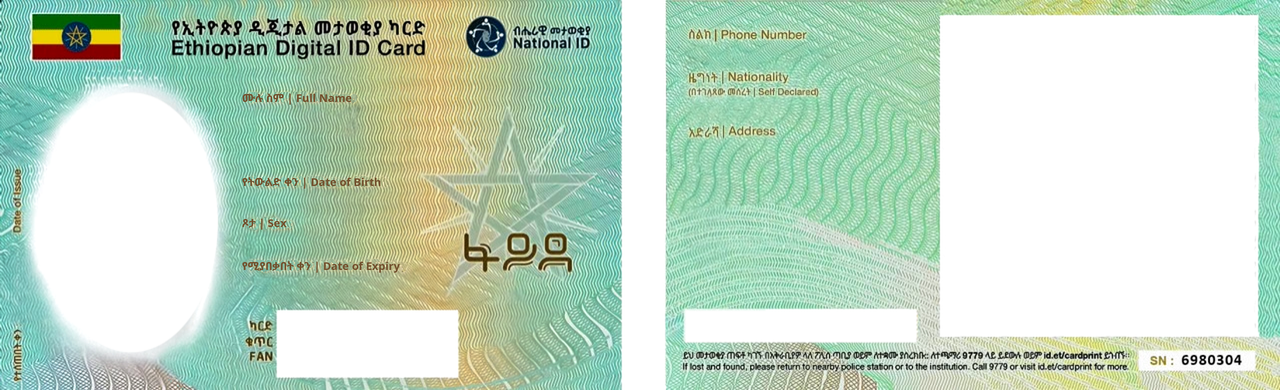
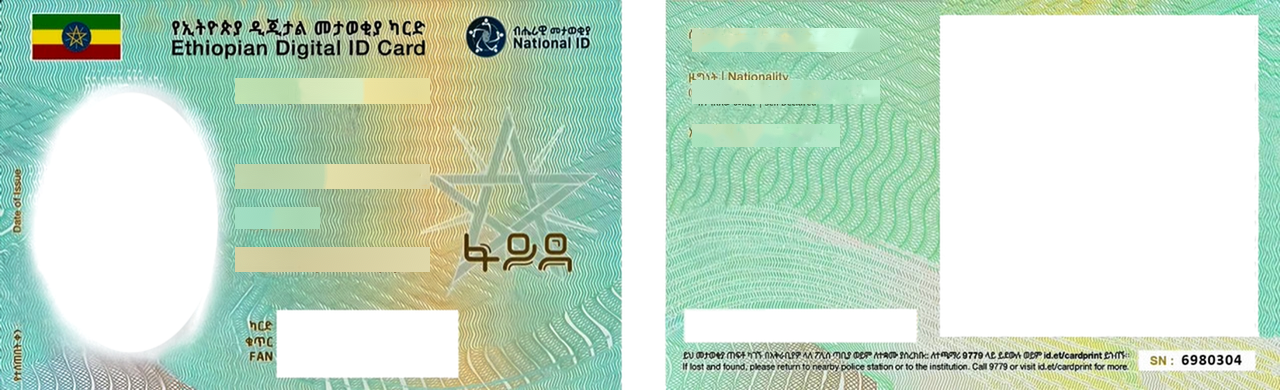
Update ID card labels: bold red styling, bilingual formatting, and connection resilience

diff --git a/core/image/image_generator.py b/core/image/image_generator.py
@@ -21,6 +21,21 @@ _local_en = LOCAL_FONTS_DIR / "noto" / "NotoSans-Regular.ttf"
 FONT_AMHARIC_DEFAULT = str(_local_am) if _local_am.exists() else "/usr/share/fonts/truetype/sil-abyssinica/AbyssinicaSIL-Regular.ttf"
 FONT_ENGLISH_DEFAULT = str(_local_en) if _local_en.exists() else "/usr/share/fonts/truetype/noto/NotoSans-Regular.ttf"
 
+_local_am_bold = LOCAL_FONTS_DIR / "noto" / "NotoSansEthiopic-Bold.ttf"
+_local_en_bold = LOCAL_FONTS_DIR / "noto" / "NotoSans-Bold.ttf"
+FONT_AMHARIC_BOLD = str(_local_am_bold) if _local_am_bold.exists() else FONT_AMHARIC_DEFAULT
+FONT_ENGLISH_BOLD = str(_local_en_bold) if _local_en_bold.exists() else FONT_ENGLISH_DEFAULT
+
+LABEL_FIELDS = [
+    ("ሙሉ ስም", "Full Name", (242, 85)),
+    ("የትውልድ ቀን", "Date of Birth", (242, 164)),
+    ("ፆታ", "Sex", (242, 203)),
+    ("የማብቂያ ቀን", "Date of Expiry", (242, 238)),
+    ("ስልክ ቁጥር", "Phone Number", (698, 33)),
+    ("ዜግነት", "Nationality", (698, 83)),
+    ("አድራሻ", "Address", (698, 126)),
+]
+
 TEMPLATES_DIR = BASE_DIR / "data" / "templates"
 TEMPLATE_PATH = TEMPLATES_DIR / "white_template_cur.png"
 MONTH_NAMES = ["Jan", "Feb", "Mar", "Apr", "May", "Jun", "Jul", "Aug", "Sep", "Oct", "Nov", "Dec"]
@@ -254,6 +269,36 @@ def generate_final_id_image(
             font_use = font_en_large
 
         draw_bold_text(draw_large, (x, y), text_to_draw, font_use, boldness=boldness * scale)
+
+    # 5.5⃣ Draw sharp bold labels (Bilingual Amharic + English)
+    try:
+        font_lbl_am = ImageFont.truetype(FONT_AMHARIC_BOLD, int(11.5 * scale))
+        font_lbl_en = ImageFont.truetype(FONT_ENGLISH_BOLD, int(11.5 * scale))
+    except Exception:
+        font_lbl_am = font_am_large
+        font_lbl_en = font_en_large
+
+    label_color = (175, 15, 15) if color else (40, 40, 40)
+
+    for am_txt, en_txt, pos in LABEL_FIELDS:
+        lx, ly = pos[0] * scale, pos[1] * scale
+        draw_bold_text(draw_large, (lx, ly), am_txt, font_lbl_am, fill=label_color, boldness=0.4 * scale)
+        am_w = draw_large.textlength(am_txt, font=font_lbl_am)
+        sep_en = " | " + en_txt
+        draw_bold_text(draw_large, (lx + am_w, ly), sep_en, font_lbl_en, fill=label_color, boldness=0.4 * scale)
+
+    try:
+        font_sub_am = ImageFont.truetype(FONT_AMHARIC_BOLD, int(8 * scale))
+        font_sub_en = ImageFont.truetype(FONT_ENGLISH_BOLD, int(8 * scale))
+    except Exception:
+        font_sub_am = font_am_large
+        font_sub_en = font_en_large
+
+    sub_color = (185, 40, 40) if color else (60, 60, 60)
+    sub_x, sub_y = 698 * scale, 97 * scale
+    draw_bold_text(draw_large, (sub_x, sub_y), "በተገለጸው መሰረት", font_sub_am, fill=sub_color, boldness=0.2 * scale)
+    sub_am_w = draw_large.textlength("በተገለጸው መሰረት", font=font_sub_am)
+    draw_bold_text(draw_large, (sub_x + sub_am_w, sub_y), " | Self Declared", font_sub_en, fill=sub_color, boldness=0.2 * scale)
 
     # 6⃣ Paste cropped images
     for key, field in TEMPLATE_FIELDS.items():

diff --git a/core/image/image_generator_b.py b/core/image/image_generator_b.py
@@ -20,6 +20,22 @@ _local_en = LOCAL_FONTS_DIR / "noto" / "NotoSans-Regular.ttf"
 
 FONT_AMHARIC_DEFAULT = str(_local_am) if _local_am.exists() else "/usr/share/fonts/truetype/sil-abyssinica/AbyssinicaSIL-Regular.ttf"
 FONT_ENGLISH_DEFAULT = str(_local_en) if _local_en.exists() else "/usr/share/fonts/truetype/noto/NotoSans-Regular.ttf"
+
+_local_am_bold = LOCAL_FONTS_DIR / "noto" / "NotoSansEthiopic-Bold.ttf"
+_local_en_bold = LOCAL_FONTS_DIR / "noto" / "NotoSans-Bold.ttf"
+FONT_AMHARIC_BOLD = str(_local_am_bold) if _local_am_bold.exists() else FONT_AMHARIC_DEFAULT
+FONT_ENGLISH_BOLD = str(_local_en_bold) if _local_en_bold.exists() else FONT_ENGLISH_DEFAULT
+
+LABEL_FIELDS_B = [
+    ("ሙሉ ስም", "Full Name", (242, 85)),
+    ("የትውልድ ቀን", "Date of Birth", (242, 169)),
+    ("ፆታ", "Sex", (242, 212)),
+    ("የማብቂያ ቀን", "Date of Expiry", (242, 252)),
+    ("ስልክ ቁጥር", "Phone Number", (698, 33)),
+    ("ዜግነት", "Nationality", (698, 83)),
+    ("አድራሻ", "Address", (698, 126)),
+]
+
 TEMPLATES_DIR = BASE_DIR / "data" / "templates"
 _tb_clean = TEMPLATES_DIR / "template_b.png"
 TEMPLATE_B_PATH = _tb_clean if _tb_clean.exists() else (TEMPLATES_DIR / "template_black_cur.png")
@@ -231,6 +247,36 @@ def generate_final_id_image_b(
             font_use = font_en_large
 
         draw_bold_text(draw_large, (x, y), text_to_draw, font_use, boldness=boldness * scale)
+ 
+    # 5.5⃣ Draw sharp bold labels (Bilingual Amharic + English)
+    try:
+        font_lbl_am = ImageFont.truetype(FONT_AMHARIC_BOLD, int(11.5 * scale))
+        font_lbl_en = ImageFont.truetype(FONT_ENGLISH_BOLD, int(11.5 * scale))
+    except Exception:
+        font_lbl_am = font_am_large
+        font_lbl_en = font_en_large
+
+    label_color = (175, 15, 15) if color else (40, 40, 40)
+
+    for am_txt, en_txt, pos in LABEL_FIELDS_B:
+        lx, ly = pos[0] * scale, pos[1] * scale
+        draw_bold_text(draw_large, (lx, ly), am_txt, font_lbl_am, fill=label_color, boldness=0.4 * scale)
+        am_w = draw_large.textlength(am_txt, font=font_lbl_am)
+        sep_en = " | " + en_txt
+        draw_bold_text(draw_large, (lx + am_w, ly), sep_en, font_lbl_en, fill=label_color, boldness=0.4 * scale)
+
+    try:
+        font_sub_am = ImageFont.truetype(FONT_AMHARIC_BOLD, int(8 * scale))
+        font_sub_en = ImageFont.truetype(FONT_ENGLISH_BOLD, int(8 * scale))
+    except Exception:
+        font_sub_am = font_am_large
+        font_sub_en = font_en_large
+
+    sub_color = (185, 40, 40) if color else (60, 60, 60)
+    sub_x, sub_y = 698 * scale, 97 * scale
+    draw_bold_text(draw_large, (sub_x, sub_y), "በተገለጸው መሰረት", font_sub_am, fill=sub_color, boldness=0.2 * scale)
+    sub_am_w = draw_large.textlength("በተገለጸው መሰረት", font=font_sub_am)
+    draw_bold_text(draw_large, (sub_x + sub_am_w, sub_y), " | Self Declared", font_sub_en, fill=sub_color, boldness=0.2 * scale)
 
     # 6⃣ Paste images
     for key, field in TEMPLATE_B_FIELDS.items():

diff --git a/app/main.py b/app/main.py
@@ -7,6 +7,8 @@ if sys.stdout and hasattr(sys.stdout, "reconfigure"):
     sys.stdout.reconfigure(encoding="utf-8", errors="replace")
 if sys.stderr and hasattr(sys.stderr, "reconfigure"):
     sys.stderr.reconfigure(encoding="utf-8", errors="replace")
+if sys.platform == "win32":
+    asyncio.set_event_loop_policy(asyncio.WindowsSelectorEventLoopPolicy())
 from app.instances import bot, dp, scheduler, processor
 from app.routers.bot_handlers import router as bot_router
 from app.config import settings
@@ -42,20 +44,31 @@ app = FastAPI(title="National ID Bot", lifespan=lifespan)
 async def health():
     return {"status": "ok", "mode": "polling", "bot": settings.BOT_NAME}
 async def run_standalone():
-    print("Clearing any existing webhook so polling can receive updates...", flush=True)
-    await bot.delete_webhook(drop_pending_updates=True)
     scheduler.start()
     dp.update.outer_middleware(MembershipMiddleware())
     dp.include_router(bot_router)
-    me = await bot.get_me()
-    print(f"Bot @{me.username} is now running in POLLING mode!", flush=True)
-    print(f"Open Telegram, find @{me.username} and send /start to test.", flush=True)
-    print("Press Ctrl+C in this terminal to stop.", flush=True)
+
+    print("Connecting to Telegram API...", flush=True)
+    while True:
+        try:
+            await bot.delete_webhook(drop_pending_updates=True)
+            me = await bot.get_me()
+            print(f"Bot @{me.username} is now running in POLLING mode!", flush=True)
+            print(f"Open Telegram, find @{me.username} and send /start to test.", flush=True)
+            print("Press Ctrl+C in this terminal to stop.", flush=True)
+            await dp.start_polling(bot, processor=processor, scheduler=scheduler, dp=dp)
+            break
+        except (KeyboardInterrupt, SystemExit):
+            break
+        except Exception as e:
+            print(f"Connection attempt failed ({type(e).__name__}: {e}). Retrying in 5 seconds... (Ensure VPN/Internet is active)", flush=True)
+            await asyncio.sleep(5)
+    
     try:
-        await dp.start_polling(bot, processor=processor, scheduler=scheduler, dp=dp)
-    finally:
         scheduler.shutdown()
         await bot.session.close()
+    except Exception:
+        pass
 if __name__ == "__main__":
     try:
         asyncio.run(run_standalone())

diff --git a/app/instances.py b/app/instances.py
@@ -37,13 +37,19 @@ class RetryRequestMiddleware(BaseRequestMiddleware):
                 print(f"Network Error: ({type(e).__name__}: {e}) on {method.__api_method__}. Retrying attempt {attempt + 1}/{self.max_retries} in {delay:.1f}s...", flush=True)
                 await asyncio.sleep(delay)
                 delay *= self.backoff_factor
+import os
+import socket
+
 class RobustAiohttpSession(AiohttpSession):
     def __init__(self, *args: Any, keepalive_timeout: float = 30.0, **kwargs: Any):
         super().__init__(*args, **kwargs)
+        self._connector_init["family"] = socket.AF_INET
         self._connector_init["keepalive_timeout"] = keepalive_timeout
         self._connector_init["enable_cleanup_closed"] = True
-session = RobustAiohttpSession(timeout=1200.0)
-session.middleware.register(RetryRequestMiddleware(max_retries=3, initial_delay=1.5))
+
+proxy_url = os.getenv("HTTPS_PROXY") or os.getenv("HTTP_PROXY") or os.getenv("ALL_PROXY") or None
+session = RobustAiohttpSession(timeout=1200.0, proxy=proxy_url) if proxy_url else RobustAiohttpSession(timeout=1200.0)
+session.middleware.register(RetryRequestMiddleware(max_retries=5, initial_delay=2.0))
 bot = Bot(token=settings.TELEGRAM_TOKEN, session=session)
 dp = Dispatcher(storage=MemoryStorage())
 scheduler = AsyncIOScheduler()
